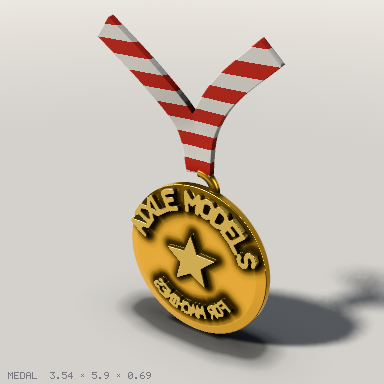
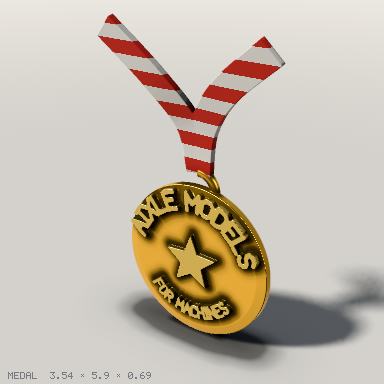
Bend text under an arc so it reads left to right, as its comment says
text() on a negative arc put its first letter on the right and mirrored
every glyph: the angle along the baseline took the arc's sign as well as
the radius did, which reverses the direction along a circle that is
already flipped to the bottom. The medal's lower legend, FOR MACHINES,
was mirror-writing in every render, and the reader of the blind
legibility check said so of both the old and the new renderer, which is
how it was found. The angle now runs the same way on both sides, so a
letter under the arc stands upright with its top toward the centre and
the text reads left to right. Only the medal uses a negative arc; its
three pictures change and nothing else does. A test measures the ink of
an L and of "I." in two bands of radius on both arcs, and fails on the
old bend.

Claude-Session: https://claude.ai/code/session_018T6HA68DSEEiuDRQLT4RUV

diff --git a/src/lang/builtins.ts b/src/lang/builtins.ts
@@ -211,7 +211,7 @@ export const BUILTINS: Builtin[] = [
     ov([{ name: "points", type: "list", doc: "a flat list [x,y, x,y, ...]: anchor, handle, handle, anchor, ..." }, num("wall", "0 for the enclosed outline; more for an open band that wide", 0)], "shape2", (a) => bezier2(nums(a[0]), n(a[1])))),
 
   def("text", "2D profiles", "Lettering as a 2D profile from a single-stroke font (A-Z, a-z, 0-9, punctuation), laid out from x = 0 on the baseline y = 0; face=\"serif\" adds slab serifs. `size` is the cap height, `weight` the stroke width (the profile's box reaches half the weight past the strokes, so the lettering stands `size` plus `weight` tall, and a line of n characters is about 0.8 × n × size wide, 0.93 with serifs); `align` is \"left\", \"center\" or \"right\". Extrude it for a sign, subtract it for engraving. check warns when the weight is under a grid cell, and for text on an arc prints the radii the lettering spans from the origin (`r 0.255..0.385`), which is what meets a rim.",
-    ov([str("text"), num("size", "cap height", 1), num("weight", "stroke width", 0.15), str("align", "", "left"), num("spacing", "extra gap between letters", 0), num("arc", "bend onto a circle of this radius, centred on the origin: positive reads over the top, negative under the bottom", 0), str("face", "\"sans\" or \"serif\" (slab serifs on the same letters, set a little wider)", "sans")], "shape2",
+    ov([str("text"), num("size", "cap height", 1), num("weight", "stroke width", 0.15), str("align", "", "left"), num("spacing", "extra gap between letters", 0), num("arc", "bend onto a circle of this radius, centred on the origin: positive reads over the top, negative under the bottom, both upright and left to right", 0), str("face", "\"sans\" or \"serif\" (slab serifs on the same letters, set a little wider)", "sans")], "shape2",
       (a) => {
         const t = a[0] as string, size = n(a[1]), spacing = n(a[4]), arc = n(a[5]);
         const face = a[6] as string;

diff --git a/tests/sdf.test.ts b/tests/sdf.test.ts
@@ -622,6 +622,28 @@ describe("partial revolve, spline, lowercase, arc text", () => {
     const under = textProfile("ABC", 1, 0.2, 0, -4);
     expect(under.bounds.min[1]).toBeLessThan(-4);
   });
+  it("arc text reads left to right with its letters upright, at the top and at the bottom", () => {
+    // The ink's mean angle along the baseline, left of centre negative, in two bands of radius: next to the
+    // baseline's circle, and far from it towards the cap height. Only an L's stem reaches the cap height, and in "I."
+    // only the I does, so in both the far band's ink sits left of the near band's when the glyph is upright and the
+    // text runs left to right. On the bottom arc the letters stand inward, so there the far band is the smaller
+    // radius. (An angle, not x: on the bottom the far band's smaller circle draws x in towards the centre.)
+    const r = 2;
+    const meanAngle = (p: ReturnType<typeof textProfile>, near: boolean, arc: number): number => {
+      let sum = 0, n = 0;
+      for (let x = -1.5; x <= 1.5; x += 0.01) for (let y = -3.2; y <= 3.2; y += 0.01) {
+        if (p.dist(x, y) >= 0) continue;
+        const out = (Math.hypot(x, y) - r) * Math.sign(arc); // height above the baseline, along the letter's up
+        if (near ? Math.abs(out) < 0.1 : out > 0.6) { sum += Math.atan2(x, y * Math.sign(arc)); n++; }
+      }
+      expect(n).toBeGreaterThan(10);
+      return sum / n;
+    };
+    for (const arc of [r, -r]) for (const text of ["L", "I."]) {
+      const p = textProfile(text, 1, 0.12, 0, arc);
+      expect(meanAngle(p, false, arc), `${text} on arc ${arc}`).toBeLessThan(meanAngle(p, true, arc) - 0.02);
+    }
+  });
   it("arc text knows the radii its ink spans, which check prints (round 10: an engraving broke out over a rim)", () => {
     // The hub's label: size 0.1 and weight 0.03 on an arc of 0.27 spans 0.255 to 0.385 from the origin.
     const label = textProfile("HB-7", 0.1, 0.03, 0, 0.27);

diff --git a/src/sdf/font.ts b/src/sdf/font.ts
@@ -231,13 +231,17 @@ export function textProfile(text: string, size = 1, weight = 0.15, spacing = 0, 
   }
   if (seg.length === 0) return shape2(() => 1e6, EMPTY_BOUNDS2, 0);
   if (arc !== 0) {
-    // Bend: x along the baseline becomes an angle, y a radius; split each stroke into short pieces first.
+    // Bend: x along the baseline becomes an angle, y a radius; split each stroke into short pieces first. The angle
+    // runs clockwise from the top whatever the side, so x runs rightwards on both: at the top a letter's up is outward
+    // (rr = r + y), at the bottom inward (r - y), and either way it is upright and reads left to right. (The angle
+    // once took the sign as well, which on the bottom put the first letter on the right and mirrored every glyph:
+    // the medal's FOR MACHINES read in a mirror, and a blind reader of its renders said so.)
     const total = cursor - gap * scale - spacing;
     const r = Math.abs(arc), sign = Math.sign(arc);
     const bent: number[] = [];
     bounds = EMPTY_BOUNDS2;
     const map = (x: number, y: number): [number, number] => {
-      const a = ((x - total / 2) / r) * sign;
+      const a = (x - total / 2) / r;
       const rr = r + y * sign;
       return [rr * Math.sin(a), rr * Math.cos(a) * sign];
     };

diff --git a/docs/reference.md b/docs/reference.md
@@ -142,7 +142,7 @@ Lettering as a 2D profile from a single-stroke font (A-Z, a-z, 0-9, punctuation)
 - `size`: cap height
 - `weight`: stroke width
 - `spacing`: extra gap between letters
-- `arc`: bend onto a circle of this radius, centred on the origin: positive reads over the top, negative under the bottom
+- `arc`: bend onto a circle of this radius, centred on the origin: positive reads over the top, negative under the bottom, both upright and left to right
 - `face`: "sans" or "serif" (slab serifs on the same letters, set a little wider)
 
 ## 2D to 3D
